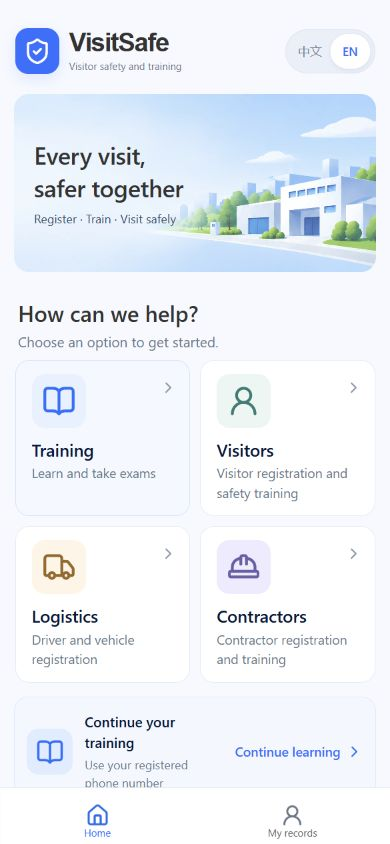
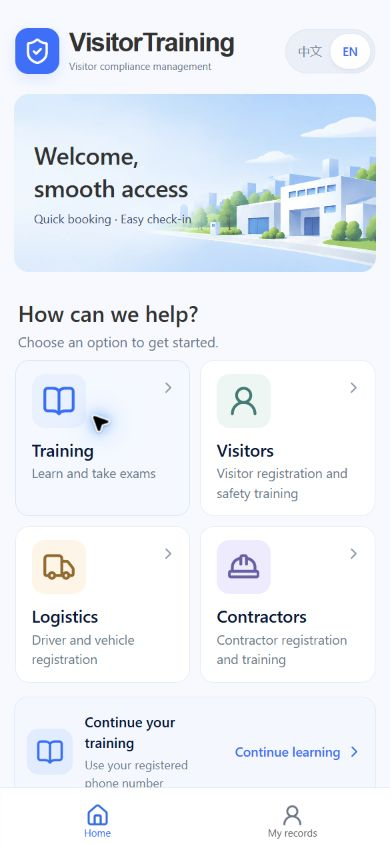
Update VisitorTraining showcases and refresh client screenshots

Changed region(s): [[0.0923, 0.154, 0.4923, 0.2773], [0.2769, 0.0308, 0.6154, 0.0924], [0.2154, 0.4621, 0.3077, 0.5237]]

diff --git a/content/cn/showcases/visitor-training.md b/content/cn/showcases/visitor-training.md
@@ -1,0 +1,152 @@
+---
+title: "VisitorTraining：企业访客合规管理平台"
+description: "VisitorTraining 将访客登记、业务与区域审批、合规培训、资质有效期及逐人进出记录连接起来，帮助企业落实访客管理要求，保留可追溯的来访记录。"
+summary: "从来访申请、访问授权与合规培训，到逐人入场核验和离场归档，VisitorTraining 通过微信小程序访客端与 Blazor 管理端连接企业访客合规管理的各个环节。"
+seo:
+  title: "VisitorTraining 企业访客合规管理平台 | BlazorStudio"
+  description: "了解 VisitorTraining 如何连接访客预约、访问授权、合规培训、资质有效期和逐人入场核验，以完整记录支持企业访客合规管理。查看产品界面、流程与项目源码。"
+slug: visitor-training-enterprise-visitor-compliance
+aliases: ["/showcases/visitsafe-visitor-safety-training/"]
+date: 2026-10-23T00:00:00+08:00
+image: /uploads/showcases/visitsafe/cover.webp
+tags: ["Visitor Management", "Compliance Training", "WeChat Mini Program", "Blazor", "Workflow"]
+---
+
+**访客合规管理，从来访之前开始。**
+
+一次企业来访，需要明确来访目的、访问权限、人员资质和入场条件。被访人确认业务事由，区域负责人审核访问范围，合规与培训管理人员落实必修要求，门岗逐人核验是否具备入场资格，各环节的处理记录也需要保留。
+
+VisitorTraining 围绕企业访客合规管理，将**访客预约、业务与区域审批、合规培训、考核结果、资质有效期以及进出记录**组织成同一条业务流程。面向国内使用场景，访客通过微信小程序完成来访登记、任务查询、课程学习与考核，内部人员在管理平台处理授权、培训和入场事项，按配置落实访客管理要求，并保留后续合规检查所需的依据。
+
+## 在线体验与项目入口
+
+| 入口 | 地址与内容 |
+| --- | --- |
+| 访客客户端网页演示 | [visit-training-client.blazorserver.com](https://visit-training-client.blazorserver.com/)：通过网页体验访客登记入口、合规培训任务查询与中英文界面 |
+| 后端管理平台 | [visit-training.blazorserver.com](https://visit-training.blazorserver.com/)：查看运营看板，以及访客申请、审批、课程和培训记录等工作区 |
+| 网页演示前端源码 | [neozhu/visit-traning-client](https://github.com/neozhu/visit-traning-client) |
+| 后端源码仓库 | [neozhu/visit-training-management](https://github.com/neozhu/visit-training-management) |
+
+## 让企业访客管理要求有据可查
+
+当来访信息、审批结果与培训记录分别保存在表格、消息和纸质记录中，企业很难确认访客管理要求是否落实：来访目的与访问区域分别经过谁授权？每个人是否完成对应的合规课程？合格成绩是否仍然有效？同行人员是否分别满足入场条件？来访结束后，能否调取当时的处理依据？
+
+VisitorTraining 将这些要求落实到五项相互衔接的工作中：
+
+- **一次申请承载完整来访信息。** 关联预约日期、访问区域、来访人员、车辆与业务信息，减少跨环节重复整理。
+- **审批责任分别记录。** 业务审批与各访问区域的审批各自保留处理结果，便于确认责任与追溯决定。
+- **合规培训匹配来访要求。** 根据登记类型与访问区域匹配必修课程，按人员记录学习进度、考核结果和资质有效期。
+- **入场条件逐人核验。** 结合申请审批和个人当前培训要求判断入场资格；同一申请中，符合条件的人可以先办理入场，其他人员继续完成必修任务。
+- **管理依据随来访记录保留。** 将审批决定、培训成绩、进出时间、操作人员与当次来访资料关联，支持后续合规检查与责任追溯。
+
+## 从微信小程序登记到离场留痕
+
+### 1. 选择来访类型，填写本次申请
+
+普通访客、物流车辆与施工人员在微信小程序中选择适合自身场景的登记入口。登记类型决定适用表单、来访须知及车辆要求，访客按步骤填写预约、被访人、到访事由、人员和访问区域等信息。
+
+除访客自行登记外，产品流程也支持授权员工代为创建申请。人员与车辆资料可以复用，而每次申请保留当次使用的信息，便于回看历史来访背景。
+
+### 2. 访问授权与合规培训并行推进
+
+申请提交后，业务审核与所选区域的审核分别进入对应责任人的任务，同时根据登记类型和访问区域为来访人员匹配合规课程。两类审批分别记录，明确谁同意来访、谁授权访问相应区域。
+
+**等待审批的时间也可以用来完成培训。** 两条工作线并行推进，避免把“先审批、再通知学习”变成不必要的串行等待。培训也可以提前分配，不要求先创建来访申请。
+
+### 3. 完成相关课程，保留成绩有效期
+
+课程可以包含合规培训视频、辅助 PDF 资料，以及单选或多选考试。学习进度、考试尝试、成绩与有效期关联到具体人员和课程，为核验必修要求是否完成、相关资质是否有效提供依据。
+
+同一个人再次来访时，仍在有效期内的合格课程成绩可以复用；复用保留原有到期日，不会因为新建申请而重新延长。已过期或新增的必修课程则需要重新完成。
+
+### 4. 按人核验入厂条件
+
+门岗依据企业配置的入场条件逐人核验，综合检查本次申请的业务与区域审批、须知确认、预约日期，以及该人员当前必修合规培训是否完成且有效，让授权结果与个人资质共同成为入场判断的依据。
+
+首次入厂须在预约日期当天，按工厂北京时间判断；预约时段用于登记与展示。同一申请下，每个人分别确认进厂与出厂，记录实际操作时间和操作人员。
+
+### 5. 完成离场与记录归档
+
+人员离场、已入厂车辆的离场及申请结束遵循各自的业务条件。来访资料快照、审批结果、考试记录与进出厂操作共同保留，便于企业在后续合规检查中回看：当时申请了什么、由谁批准、完成了哪些课程，以及每个人何时进入和离开。
+
+## 真实界面：访客手机端与管理看板
+
+下方两张移动端截图采集自微信开发者工具中的小程序模拟器，分别展示访客业务入口和本人培训与申请查询页；管理看板截图采集自在线演示系统。查询需要姓名与手机号同时匹配，查询本身不代表身份认证。上方保留客户端网页演示入口，便于直接了解相关功能。
+
+<style>
+.vs-mobile-screens {display: grid; grid-template-columns: repeat(2, minmax(0, 1fr)); gap: 1.5rem; max-width: 46rem; margin: 2rem auto;}
+.vs-mobile-screens figure {margin: 0;}
+.vs-mobile-screens img {width: 100%; height: auto; border: 1px solid var(--borderLight); border-radius: .75rem;}
+.vs-figure img {width: 100%; height: auto;}
+.vs-figure figcaption, .vs-mobile-screens figcaption {margin-top: .65rem; font-size: .875rem; line-height: 1.7;}
+@media (max-width: 600px) {.vs-mobile-screens {grid-template-columns: 1fr; max-width: 24rem;}}
+</style>
+
+<div class="vs-mobile-screens">
+  <figure>
+    <a href="/uploads/showcases/visitsafe/visitor-portal-cn.jpg" target="_blank" rel="noopener"><img src="/uploads/showcases/visitsafe/visitor-portal-cn.jpg" width="546" height="1179" loading="lazy" alt="VisitorTraining 微信小程序首页，包含学习培训、普通访客、物流车辆和施工人员入口"></a>
+    <figcaption>微信小程序首页实拍，按访客办理事项组织登记与学习入口。</figcaption>
+  </figure>
+  <figure>
+    <a href="/uploads/showcases/visitsafe/training-lookup-cn.jpg" target="_blank" rel="noopener"><img src="/uploads/showcases/visitsafe/training-lookup-cn.jpg" width="546" height="1179" loading="lazy" alt="VisitorTraining 微信小程序本人培训与申请查询页，通过登记姓名和手机号码查找本人任务、来访申请和通过记录"></a>
+    <figcaption>小程序本人培训与申请查询页，通过登记姓名与手机号查找本人任务、来访申请和通过记录。</figcaption>
+  </figure>
+</div>
+
+管理端把预约来访、在厂人员、待处理审批、车辆及培训有效情况汇总到运营看板，并提供访问区域与时间范围筛选。管理人员可以从同一个工作入口了解来访准备与现场状态。
+
+<figure class="vs-figure">
+  <a href="/uploads/showcases/visitsafe/management-dashboard.jpg" target="_blank" rel="noopener"><img src="/uploads/showcases/visitsafe/management-dashboard.jpg" width="1430" height="993" loading="lazy" alt="VisitorTraining 管理平台运营看板，展示预约来访、在厂人员、审批概览、访问趋势及培训有效情况"></a>
+  <figcaption>在线管理看板实拍。页面中的人物、审批、成绩和运营数值均为虚构演示数据。</figcaption>
+</figure>
+
+## 一图理解 VisitorTraining 的来访流程
+
+中文长图将登记、任务生成、培训考试、入厂核验和离场记录串联起来。图中的题数、分数及具体审批角色为说明示例；实际规则由登记类型、访问区域和课程配置决定。
+
+<figure class="vs-figure">
+  <a href="/uploads/showcases/visitsafe/workflow-cn.png" target="_blank" rel="noopener"><img src="/uploads/showcases/visitsafe/workflow-cn.png" width="724" height="2172" loading="lazy" alt="VisitorTraining 中文访客流程总览：选择登记类型、填写申请、生成审批和培训任务、学习考试、逐人核验入厂以及离场留痕"></a>
+  <figcaption>VisitorTraining 中文流程示意图。点击图片可查看原图。</figcaption>
+</figure>
+
+<details>
+  <summary>查看英文流程全景图：从预约申请到进出厂与记录查询</summary>
+  <div><div>
+    <figure class="vs-figure">
+      <a href="/uploads/showcases/visitsafe/workflow-en.png" target="_blank" rel="noopener"><img src="/uploads/showcases/visitsafe/workflow-en.png" width="1536" height="1024" loading="lazy" alt="VisitorTraining 英文流程图，说明审批与培训并行、个人入厂条件、进出厂确认及历史记录查询"></a>
+      <figcaption>英文流程全景图；培训题数、合格分数和审批角色为示意，实际以系统配置为准。</figcaption>
+    </figure>
+  </div></div>
+</details>
+
+## 连接不同角色，保留一致的业务上下文
+
+| 使用角色 | 关注的问题 | 对应工作 |
+| --- | --- | --- |
+| 访客、承包商与物流司机 | 如何预约、需要学什么、是否已完成 | 微信小程序登记、任务查询、视频学习、考试与结果查看 |
+| 接待与运营人员 | 谁将到访、去哪些区域、有哪些随行人员和车辆 | 申请维护、代登记、人员车辆资料与预约信息管理 |
+| 业务与区域审批人 | 来访目的和访问范围是否合适 | 按职责处理审核任务，分别记录审批结果 |
+| 合规与培训管理人员 | 适用哪些学习要求、相关资质是否仍有效 | 课程、题库、有效期、培训分配与记录管理 |
+| 门岗人员 | 当前这个人是否满足入厂要求、何时离场 | 逐人核验、进出厂操作与时间留痕 |
+
+## 技术架构与交付方式
+
+VisitorTraining 将面向访客的微信小程序与面向企业内部人员的管理工作台分开，通过 API 共享业务规则与数据。本文同时提供 React 网页演示，便于直接体验访客端流程。
+
+| 层次 | 技术与职责 |
+| --- | --- |
+| 微信小程序访客端 | 面向国内访客，承载来访登记、合规培训、任务查询与考核结果查看 |
+| 客户端网页演示 | React、TypeScript、Vite、Ant Design Mobile、Tailwind CSS，通过手机浏览器演示访客端流程 |
+| 企业管理端 | Blazor 与 CleanBlazorServerPro，承载业务管理、用户角色、权限与操作日志等工作 |
+| 业务接口 | ASP.NET Minimal APIs，连接访客端与管理端的业务能力 |
+| 数据与部署 | SQL Server、Docker Compose 与 GHCR 镜像，支持前端、后端和数据库的组合部署 |
+
+产品仍在持续迭代。本文结合项目文档、小程序界面与当前在线演示介绍产品设计，具体已开放功能及集成范围以实际部署版本和项目文档为准。封面为概念插画，移动端界面为微信开发者工具模拟器截图，管理看板为浏览器截图。
+
+## 建立一致、可追溯的企业访客合规流程
+
+工厂接待、承包商进场、物流车辆来访与园区访问，都需要回答同一组管理问题：谁要来、允许去哪些区域、需要谁批准、必须完成哪些合规培训，以及应该保留哪些处理记录。
+
+VisitorTraining 将这些要求关联到同一次来访：访客清楚需要履行的事项，审批人按职责记录授权决定，门岗逐人核验入场资格，企业管理人员能够回看完整依据。由此形成职责明确、执行一致、记录可追溯的访客合规管理流程。
+
+**[查看访客客户端网页演示](https://visit-training-client.blazorserver.com/) · [查看管理平台](https://visit-training.blazorserver.com/) · [网页演示前端源码](https://github.com/neozhu/visit-traning-client) · [后端源码](https://github.com/neozhu/visit-training-management)**

diff --git a/content/en/showcases/visitor-training.md b/content/en/showcases/visitor-training.md
@@ -5,7 +5,7 @@ summary: "From registration and compliance training to entry checks and departur
 seo:
   title: "VisitorTraining Enterprise Visitor Compliance | BlazorStudio"
   description: "Explore VisitorTraining for enterprise visitor compliance: registration, approvals, required training, qualification validity, entry checks and traceable visit records."
-slug: visitortraining-enterprise-visitor-compliance
+slug: visitor-training-enterprise-visitor-compliance
 aliases: ["/showcases/visitsafe-visitor-safety-training/"]
 date: 2026-10-23T00:00:00+08:00
 image: /uploads/showcases/visitsafe/cover.webp
@@ -71,7 +71,7 @@ Participant departures, the departure of vehicles that entered, and application 
 
 ## Live product screens
 
-These screenshots were captured from the online demos. The mobile screens show the visitor entry points and personal training lookup. Both the registered name and phone number must match when finding assigned tasks; the lookup itself does not verify identity.
+The mobile screenshots were captured from the local VisitorTraining client; the management dashboard was captured from the online demo. The mobile screens show the visitor entry points and personal training lookup. Both the registered name and phone number must match when finding assigned tasks; the lookup itself does not verify identity.
 
 <style>
 .vs-mobile-screens {display: grid; grid-template-columns: repeat(2, minmax(0, 1fr)); gap: 1.5rem; max-width: 46rem; margin: 2rem auto;}
